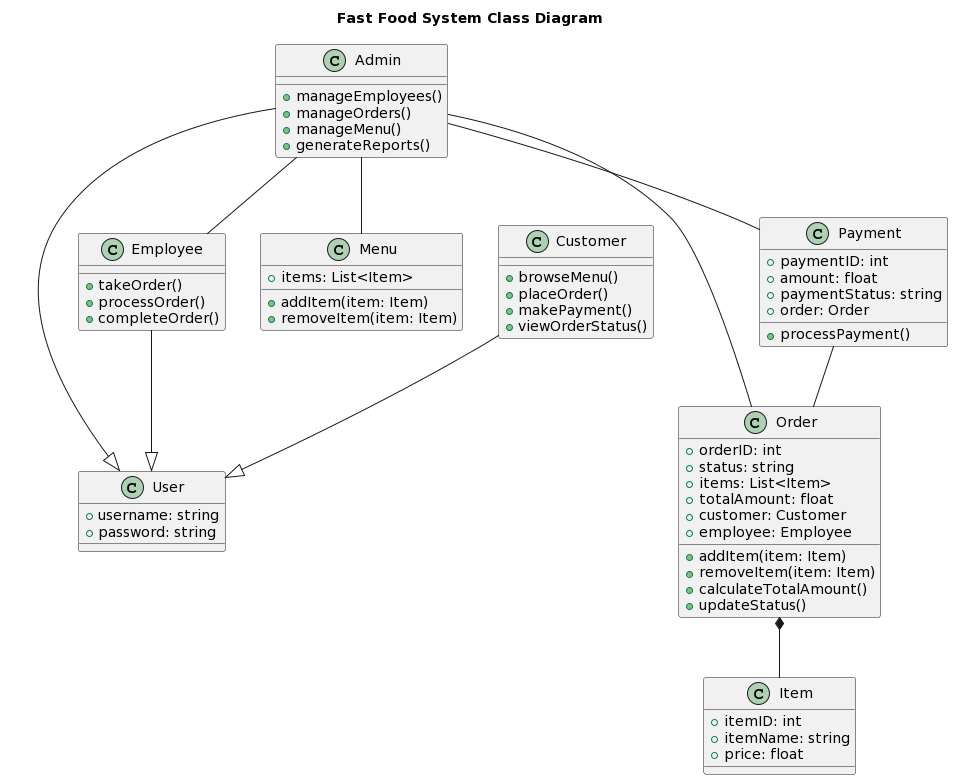
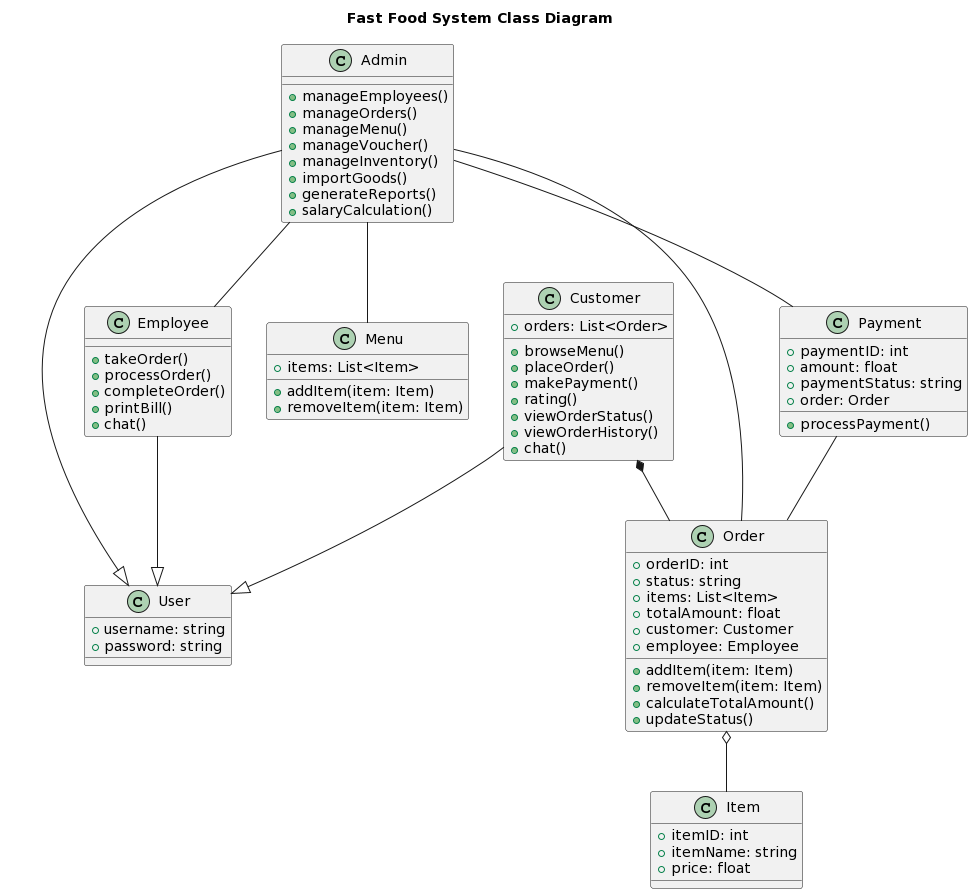
Update

diff --git a/README.md b/README.md
@@ -1,6 +1,6 @@
 ![UIT](https://img.shields.io/badge/from-UIT%20VNUHCM-blue?style=for-the-badge&link=https%3A%2F%2Fwww.uit.edu.vn%2F)
 
-SE357-PRACTICE-CLASS
+XÂY DỰNG ỨNG DỤNG QUẢN LÝ CỬA HÀNG THỨC ĂN NHANH
 
 **Contributors**:
 
@@ -11,7 +11,25 @@ SE357-PRACTICE-CLASS
 
 - Vũ Tuấn Hải - [Github](https://github.com/vutuanhai237)
 
-**Description**: Lorem ipsum dolor sit amet, consectetur adipiscing elit, sed do eiusmod tempor incididunt ut labore et dolore magna aliqua. Ut enim ad minim veniam, quis nostrud exercitation ullamco laboris nisi ut aliquip ex ea commodo consequat. Duis aute irure dolor in reprehenderit in voluptate velit esse cillum dolore eu fugiat nulla pariatur. Excepteur sint occaecat cupidatat non proident, sunt in culpa qui officia deserunt mollit anim id est laborum.
+**Description**: A fast food system refers to a computerized and integrated set of processes and functionalities designed to streamline the operations of a fast food restaurant or chain. This system incorporates various software and hardware components to manage different aspects of the fast food business, from customer interactions to internal operations.
+
+Key components and features of a fast food system typically include:
+
+- Order Management: The system facilitates the process of taking and managing customer orders. It may include features for menu display, order customization, and real-time order tracking.
+
+- Inventory Management: To efficiently handle stock levels, the system assists in managing inventory. This includes tracking the availability of ingredients, managing stock levels, and automating the reordering process when necessary.
+
+- Employee Management: The system helps in managing employee information, scheduling shifts, and tracking working hours. It may also support functionalities related to employee payroll and performance evaluation.
+
+- Payment Processing: The system facilitates secure and efficient payment processing. This can include various payment methods such as cash, credit cards, mobile payments, and online transactions.
+
+- Reporting and Analytics: Fast food systems often include reporting and analytics tools. Admins can generate various reports, such as sales reports, inventory reports to make informed business decisions.
+
+- Online Ordering and Delivery Integration: Some fast food systems integrate with online platforms for additional exposure and facilitate the management of delivery services.
+
+- Menu Management: The system supports the management of the menu, allowing for easy updates and modifications to accommodate changes in offerings or promotions.
+
+The implementation of a fast food system can significantly improve operational efficiency, enhance customer satisfaction, and provide valuable insights for strategic decision-making. It aims to create a seamless and enjoyable experience for both customers and employees while optimizing business processes.
 
 **How to use**:
 
